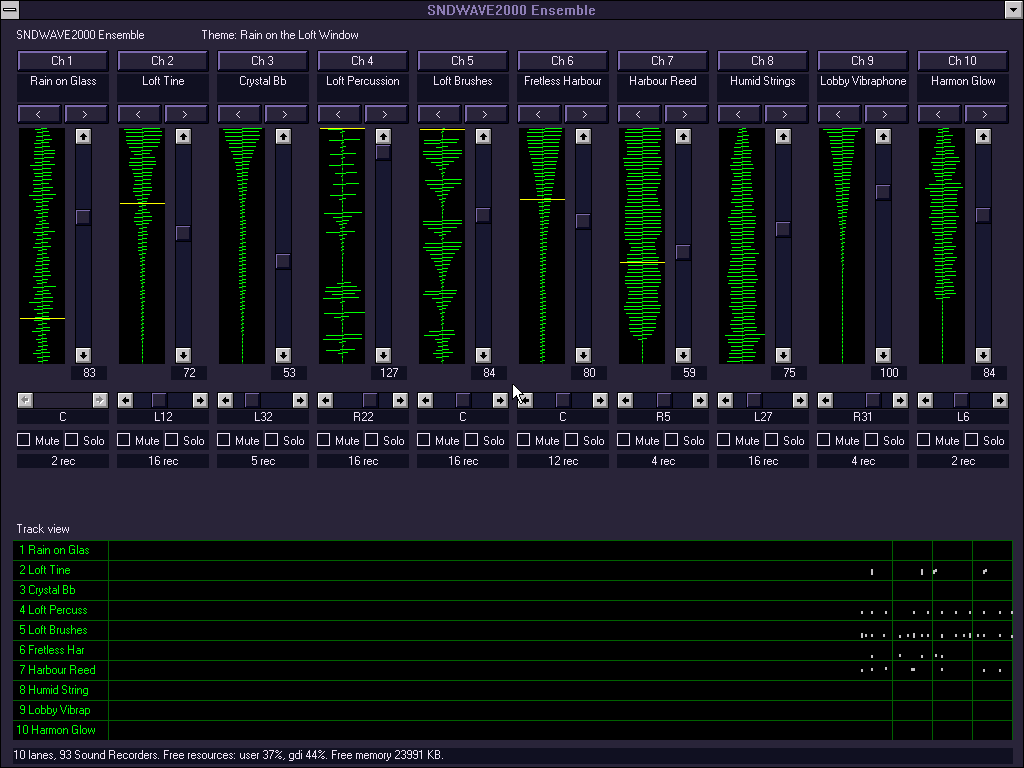
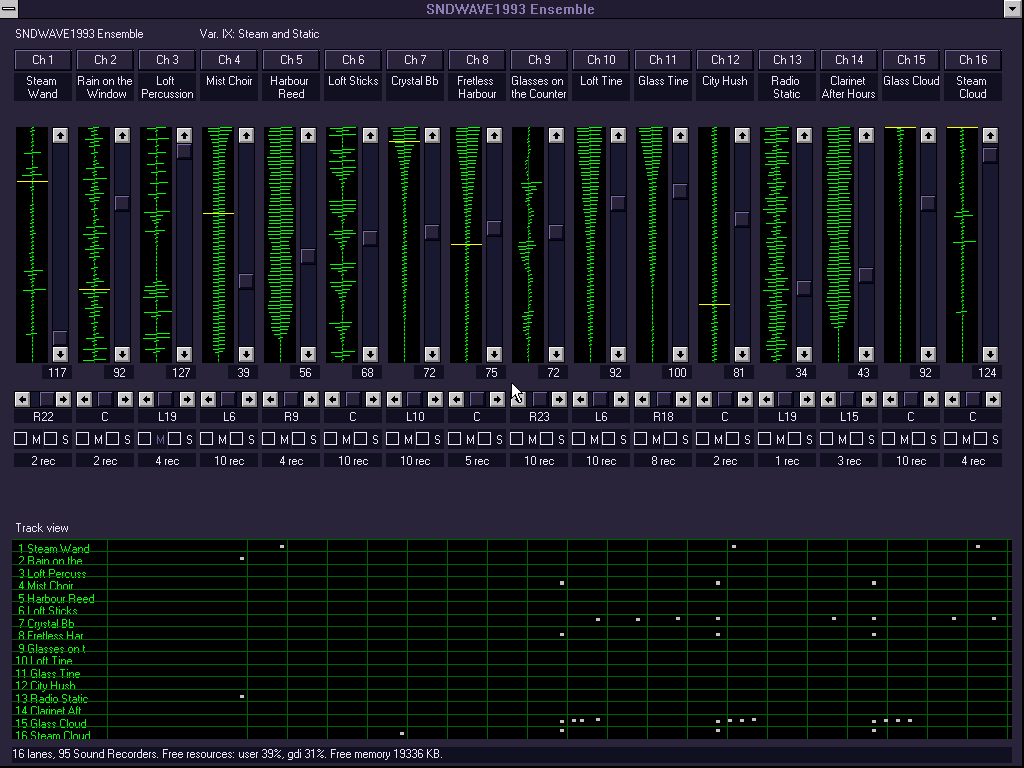
/citypop-ens/ round 2 report (design/CITYPOP-ENS.md): every part, 134 switches, 0 gaps over a full album; the next track's sounds fetched before the first note

diff --git a/tools/citypop-ens-web/worker-main.js b/tools/citypop-ens-web/worker-main.js
@@ -110,7 +110,21 @@ if (typeof WorkerGlobalScope !== 'undefined' && self.name !== 'em-pthread') (fun
     const album = new TextDecoder().decode(by['album.ens']);
     const pa = M.stringToNewUTF8(album); M._ens_album(pa); M._free(pa);
     schedule = m.schedule || null;
-    if (schedule) discWant(schedule.ranges[m.from || 0] || [], true);
+    if (schedule) {   // the first track's sounds before the first note (Windows reads them while it plays: a piece it waits
+                      // for stops the emulator), the next track's behind them
+      const c = disc.chunk, want = new Set();
+      // (from the first track, whose sounds the snapshot holds built: the second track's, which build while it plays;
+      // from any other: that track's own, which build before its first note - the next one's follow at once)
+      for (const t of [(m.from || 0) === 0 ? 1 : m.from])
+        for (const [a, e] of schedule.ranges[t] || []) for (let i = Math.floor(a / c); i <= Math.floor((e - 1) / c); i++) want.add(i);
+      let got = 0; const all = [...want], total2 = all.length;
+      await Promise.all([0, 1, 2, 3].map(async w => { for (let k = w; k < all.length; k += 4) {
+        const i = all[k], a = i * c, e = Math.min(disc.size, a + c) - 1;
+        const r = await fetch(disc.url, { headers: { Range: 'bytes=' + a + '-' + e } });
+        if (r.status === 206) M.b16LazyCache.set(a, new Uint8Array(await r.arrayBuffer()));
+        post({ t: 'progress', loaded: total + (++got) * c, total: total + total2 * c }); } }));
+      prefetched = (m.from || 0);
+    }
     if (m.colors) M._ens_colors(1);
     const ok = M.ccall('ens_start', 'number', ['string', 'string', 'string', 'string', 'number', 'string'],
                        ['/machine/w31.conf', '/machine/w31web.state', '', '', m.lead || 96000, m.libraryNames || '']);
@@ -121,6 +135,7 @@ if (typeof WorkerGlobalScope !== 'undefined' && self.name !== 'em-pthread') (fun
                'grant_until', 'sched_late', 'error', 'gain', 'size', 'w', 'h', 'lead'].forEach((k, i) => lay[k] = h32[o + i]);
     S = M._ens_shm();
     running = true;
+    if (schedule) { prefetched = (m.from || 0) + 1; if (m.from) discWant(schedule.ranges[prefetched] || [], false); }
     setInterval(tick, 5);
     post({ t: 'mem', buffer: M.wasmMemory.buffer, base: S, lay });
     let resumed = false;

diff --git a/design/CITYPOP-ENS.md b/design/CITYPOP-ENS.md
@@ -1,12 +1,79 @@
-# /citypop-ens/: the whole album on one SNDWAVE2000 Ensemble, live in the browser
+# /citypop-ens/: the whole album on one SNDWAVE1993 Ensemble, live in the browser
 
 williamsharkey.com/citypop-ens/ (linked from nowhere). One DOSBox Pure (wasm, in a worker) runs Windows for Workgroups
-3.11 with ENSEMBLE.EXE: ten lanes, each lane a preset on its own Sound Recorders. The page plays CITYPOP DEPROGRAMMED,
-all twelve tracks back to back (2,493 s), from one schedule: every note goes to Windows ahead of time, stamped with the
-DAC sample it sounds at; between parts a lane switches preset, and Windows builds the new sound with Sound Recorder's
-own menus while that lane is silent. Nothing is pre-rendered: the AudioWorklet reads the lane card's DAC ring out of the
-worker's shared memory.
+3.11 with ENSEMBLE.EXE and plays CITYPOP1993, all twelve tracks back to back (2,495 s), from one schedule: every note
+goes to Windows ahead of time, stamped with the DAC sample it sounds at; between parts a lane switches preset, and
+Windows builds the new sound with Sound Recorder's own menus while that lane is silent. Nothing is pre-rendered: the
+AudioWorklet reads the lane card's DAC ring out of the worker's shared memory.
 
+## Round 2: every part (sixteen lanes)
+
+The first round fitted the album into ten lanes and left parts out. Now no part of any track is cut: up to sixteen
+lanes (track 12 uses fifteen), 134 segments, 49,661 notes (99,919 note events).
+
+What made room, and what made it fast enough:
+
+| | |
+|---|---|
+| **Recorders, not lanes, are the budget** | Windows' USER heap (64 KB) holds every window: each Sound Recorder and each strip control. A sixteen-lane build (`-DNB_LANES=16`) draws its strip labels (channel, name, level, pan, recorders) itself instead of making them windows, and has no preset arrows: 7 fewer windows a strip, USER 73 % free with the strips up (60 % before). |
+| **Exact pools** | `album_ens.py` gives every layer of every part as many recorders as that part plays at once on that layer: its keys (zones), chords and unison (H, U), the sustain pedal, the release tail; drum kits count a hit as 1.2 s. Then at most 10 a part (the biggest pools give first): strings, ep, kits and choir steal a voice now and then. Ambience is 1-2. |
+| **Idle lanes give back** | A lane whose part is over and whose next build is 20 s off or more closes its recorders (`trim`); at every build a lane closes what its new preset does not use. |
+| **Sound cache** | Every sound Sound Recorder builds is saved on R: under the hash of its recipe (source and steps, C*.WAV); a lane that needs it again, on any track, loads the file instead of building it. 28 cache hits over the album. |
+| **The first track is built in the snapshot** | The page's snapshot is taken with the first track's twelve presets on their recorders (and the lanes' silent first plays over: a play in progress never finishes after a resume, and it had cost 60 % more CPU). 38 MB of machine, 6.6 MB packed: the recorders hold many copies of the same sounds, which LZMA with a 64 MB window takes almost for free (gzip: 30 MB). The worker unpacks it (LZMA SDK decoder in the wasm, 0.6 s). |
+| **Fewer frames** | Windows' screen is rendered 6 times a second, only when asked for (DOSBox draws no frame in between), and the strips and the track view are drawn less often in the page (`ui 120 100`). |
+| **16 s in hand** | A DAC ring of 21.8 s; the emulator keeps 16 s ahead of the speakers. The first beat is set 4 s after where the speakers are when the presets are ready, and the speakers jump to it. |
+
+Where the time goes (native, `perf`, then a sampler in the card that names the guest module under the CPU every
+emulated millisecond): the emulated CPU is 75 % of the host's work, the card's mix 13 %, the S3 drawing 5 %. Inside
+Windows the CPU is idle 65 % of the time; of the rest the most is KERNEL's scheduler walking 100-odd tasks, then
+ENSEMBLE, USER and GDI. Fewer recorders is the main saving; the drawing matters most in the browser.
+
+### Results (one full album each)
+
+| track | lanes | switches | built | building (s) | late for a switch | recorders (max) | USER free (min) | memory free (min) |
+|---|---|---|---|---|---|---|---|---|
+| 1 Theme: Rain on the Loft Window | 12 | 12 | 12 (in the snapshot) | - | 0 | 97 | 39 % | 20.9 MB |
+| 2 Var. I: Espresso, Two Sugars | 11 | 12 | 12 | 6.8 | 2 | 100 | 37 % | 20.3 MB |
+| 3 Var. II: Taxi Lights on Wet Asphalt | 11 | 11 | 9 | 5.5 | 0 | 99 | 37 % | 20.0 MB |
+| 4 Var. III: Elevator to the 23rd Floor | 10 | 10 | 8 | 8.9 | 0 | 91 | 42 % | 21.0 MB |
+| 5 Var. IV: Answering Machine, 1:12 a.m. | 10 | 11 | 10 | 6.3 | 0 | 91 | 40 % | 25.9 MB |
+| 6 Var. V: Neon Waltz | 10 | 10 | 10 | 4.3 | 0 | 108 | 34 % | 24.1 MB |
+| 7 Var. VI: Paganini Takes the Last Train | 10 | 11 | 10 | 6.1 | 0 | 116 | 31 % | 16.9 MB |
+| 8 Var. VII: The Loft, Inverted | 11 | 11 | 10 | 6.3 | 0 | 127 | 26 % | 7.1 MB |
+| 9 Var. VIII: Couch Fort Disco | 11 | 11 | 11 | 8.9 | 0 | 102 | 36 % | 10.5 MB |
+| 10 Var. IX: Steam and Static | 9 | 9 | 8 | 5.4 | 0 | 99 | 37 % | 14.2 MB |
+| 11 Var. X: Last Call at the Listening Bar | 10 | 10 | 9 | 9.6 | 0 | 109 | 34 % | 11.3 MB |
+| 12 Finale: Dawn over the Bay | 15 | 16 | 13 | 8.8 | 0 | 103 | 36 % | 14.0 MB |
+| **album** | | **134** | **122** (28 from the cache, 12 kept their preset) | | **2** | **127** | **26 %** | **7.1 MB** |
+
+(Headless Chrome on the page; the native `albumrender` run of the same schedule gives the same counts.)
+
+- **Notes:** all 99,919 note events played, none dropped. 2 notes of track 2 come late for a switch (they start before
+  their part's build is done). Notes that reach the card after their stamp while Windows is busy: native 231 of
+  224,376 events (worst 1.2 s), browser 53.
+- **Audio:** **0 gaps** over the whole album in headless Chrome; Windows was never less than 15.5 s ahead of the speakers.
+  Two earlier full runs had gaps: one in the first seconds (the music started before Windows was ahead: fixed, the
+  first beat now waits 4 s), one when the test browser, at nice 10 on a machine loaded by other jobs, was given a
+  third of a core for some seconds and the 8 s it had in hand ran out (the lead is now 16 s).
+- **CPU, this PC** (Ryzen 7 PRO 7840U, 2023 laptop): native 1.93x real time, 0.46 of a core; browser 0.70 of a core in
+  all (p95 0.97), the emulator busy a median 33 % of real time (p95 78 %).
+- **Start, from Play, live on williamsharkey.com:** about 30 MB is fetched first (the machine, 18 MB, and the second
+  track's sounds, 11.5 MB: they build while the first track plays, and a piece Windows has to wait for stops the
+  emulator); the snapshot is unpacked and resumed at about 8 s and the first note comes at about 14 s (the speakers
+  wait 4 s for Windows to get ahead). Locally, with nothing to download, the first note is at about 5 s. Starting from
+  any other track, that track's sounds are fetched and its presets built first: 10-15 s more.
+- **Typical laptop:** not measured. The emulator needs about a third of this PC's core on average and nearly all of it
+  for seconds at a time while Windows builds; the 16 s in hand covers that here. A 2020-or-later laptop should play it
+  through; one with half this single-thread speed would run at about two thirds busy and could run dry where builds
+  and dense passages meet; phones are not expected to keep up.
+- **Downloads:** about 55 MB in all over the album (the Rainy Loft disc 32 MB, in pieces, a track ahead).
+- **Plugin:** the Ensemble plugin (now SNDWAVE1993 Ensemble, same URI and ids) with this guest: offline identical to
+  render311 on CITYPOP 09 (30 s, all lanes within 9e-8), pluginval strictness 10 SUCCESS.
+
+Screenshots: `design/citypop-ens/loft16.png` (Rainy Loft colours, sixteen strips).
+
+
+## Round 1 (ten lanes)
 ## Pieces
 
 | | |
@@ -73,7 +140,7 @@ This PC: AMD Ryzen 7 PRO 7840U (a 2023 laptop chip), headless Chrome 141.
 In the first full browser run (with the native run and an upload going on beside it) the emulator saturated twice for
 30 to 40 s, at 2:35 into track 4 and at the end of track 7, and the 2 s the emulator kept in hand ran out: 2 s and 3 s
 of audio missing, as fades. The emulator now keeps 8 s ahead of the speakers; at the first beat the speakers jump
-forward to the music (keeping at least 3 s in hand), and Stop or a new track skips what is in hand, so the long lead
+forward to the music (keeping at least 6 s in hand), and Stop or a new track skips what is in hand, so the long lead
 costs no waiting. Second full browser run, whole album: **0 audio gaps**, never less than 7.0 s in hand, 122 switches,
 0 notes late for a switch, 27 card-late notes. A live run of track 5 from williamsharkey.com: 0 gaps.
 
